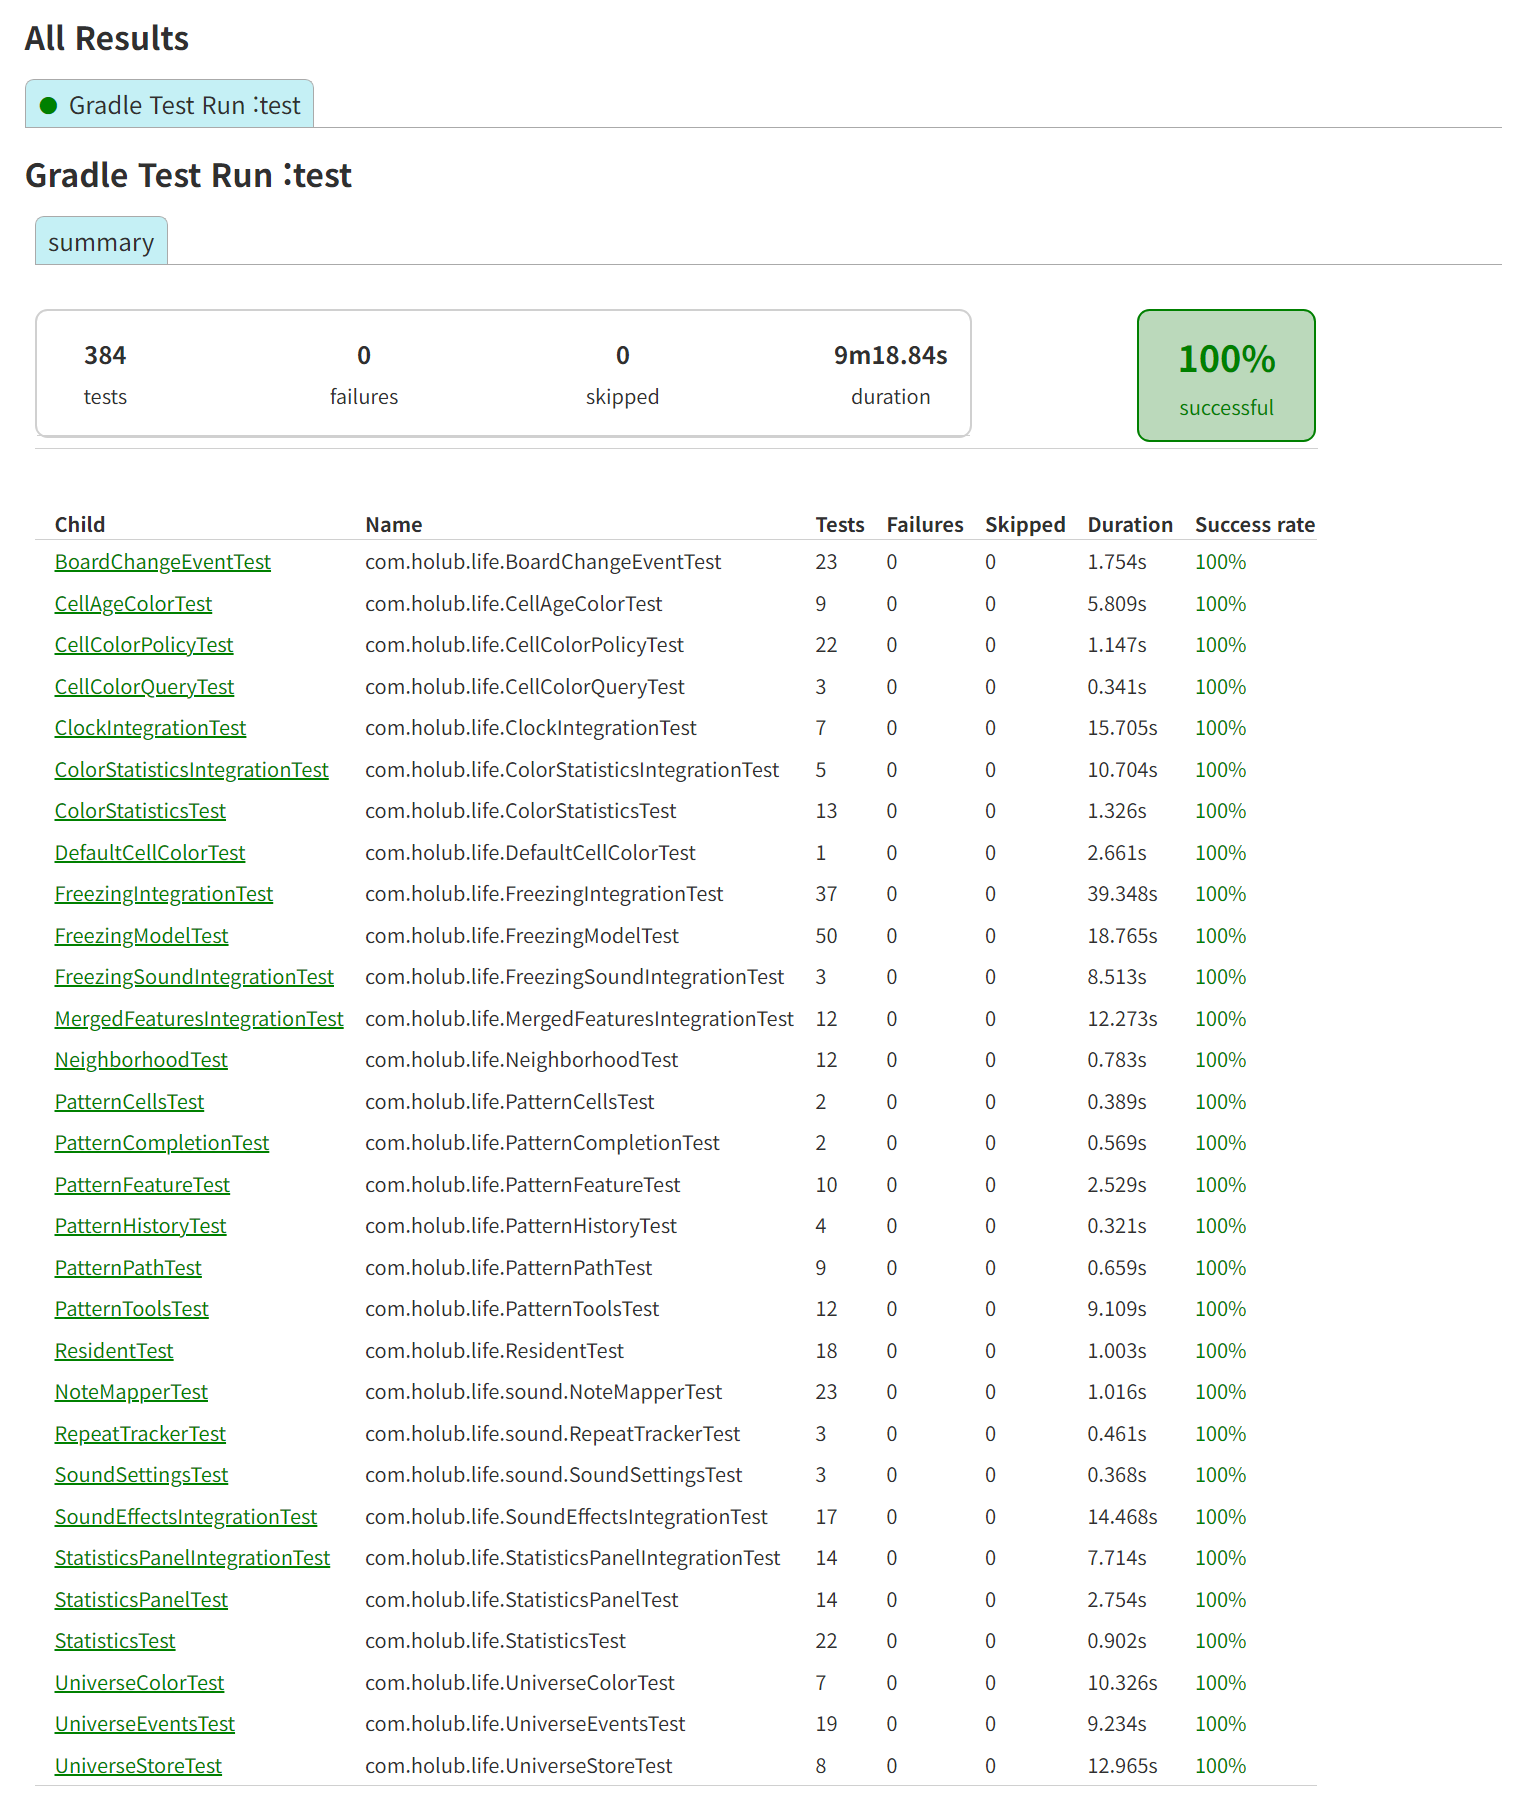
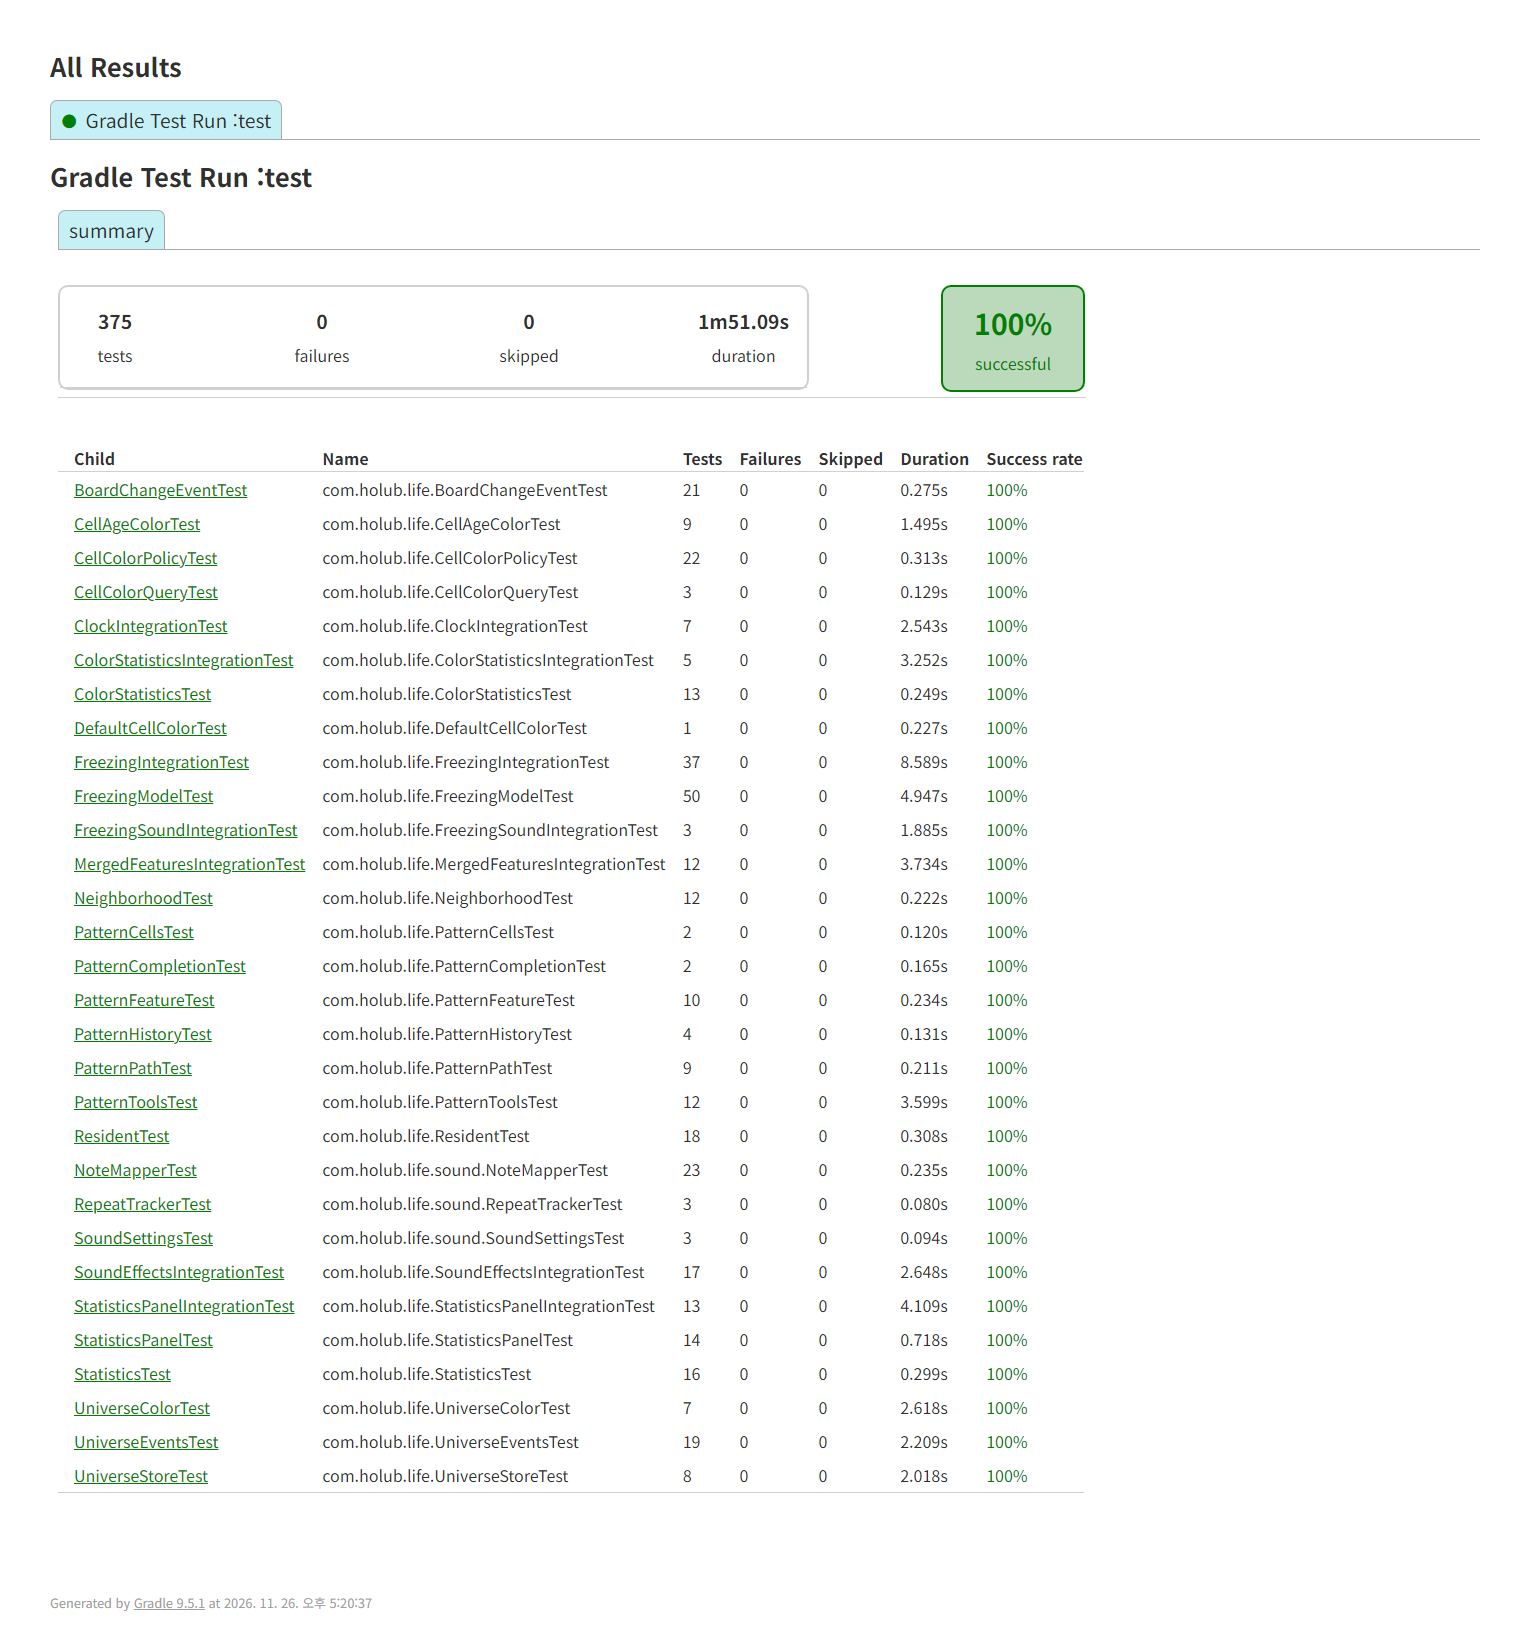
docs: 전체 테스트 수를 375개로 맞추고 test-all.png를 다시 캡처

diff --git a/docs/freezing/evidence/README.md b/docs/freezing/evidence/README.md
@@ -4,11 +4,12 @@ Gradle HTML 보고서(`build/reports/tests/test/`)를 브라우저로 열어 캡
 
 - 실행: 2026-11-21, `.\gradlew.bat clean test --rerun-tasks --console=plain`
 - 코드: main `4dc39e6`. 그 뒤 dev(`cfba2ed`, PR #24)는 테스트 파일을 기능별 폴더로 옮기기만 했고 테스트 클래스와 메서드는 같다
+- `test-all.png`만 2026-11-26에 dev `ec7b7c3`(#27, #28 병합 뒤)에서 같은 명령으로 다시 실행해 캡처했다. 통계 테스트 정리(#27)로 전체가 384개에서 375개가 됐고, Freezing 테스트 90개는 그대로다
 - 환경: Windows 11, JDK 17, Gradle 9.5.1
 
 | 화면 | 내용 | 결과 |
 | --- | --- | --- |
-| [test-all.png](test-all.png) | 회귀 확인: 기존 테스트 294개와 Freezing 테스트 90개를 함께 실행 | 384개 통과, 실패 0 |
+| [test-all.png](test-all.png) | 회귀 확인: 다른 기능의 테스트 285개와 Freezing 테스트 90개를 함께 실행 | 375개 통과, 실패 0 |
 | test-freezing-model-1~7 | `FreezingModelTest` (모델만, Universe와 Swing 없이). 아래 표처럼 7개로 나눠 캡처 | 50개 통과 |
 | [test-freezing-integration.png](test-freezing-integration.png) | `FreezingIntegrationTest` (실제 Universe에서 다른 기능과 함께) | 37개 통과 |
 | [test-freezing-sound.png](test-freezing-sound.png) | `FreezingSoundIntegrationTest` (실제 SoundEffects와 함께) | 3개 통과 |
